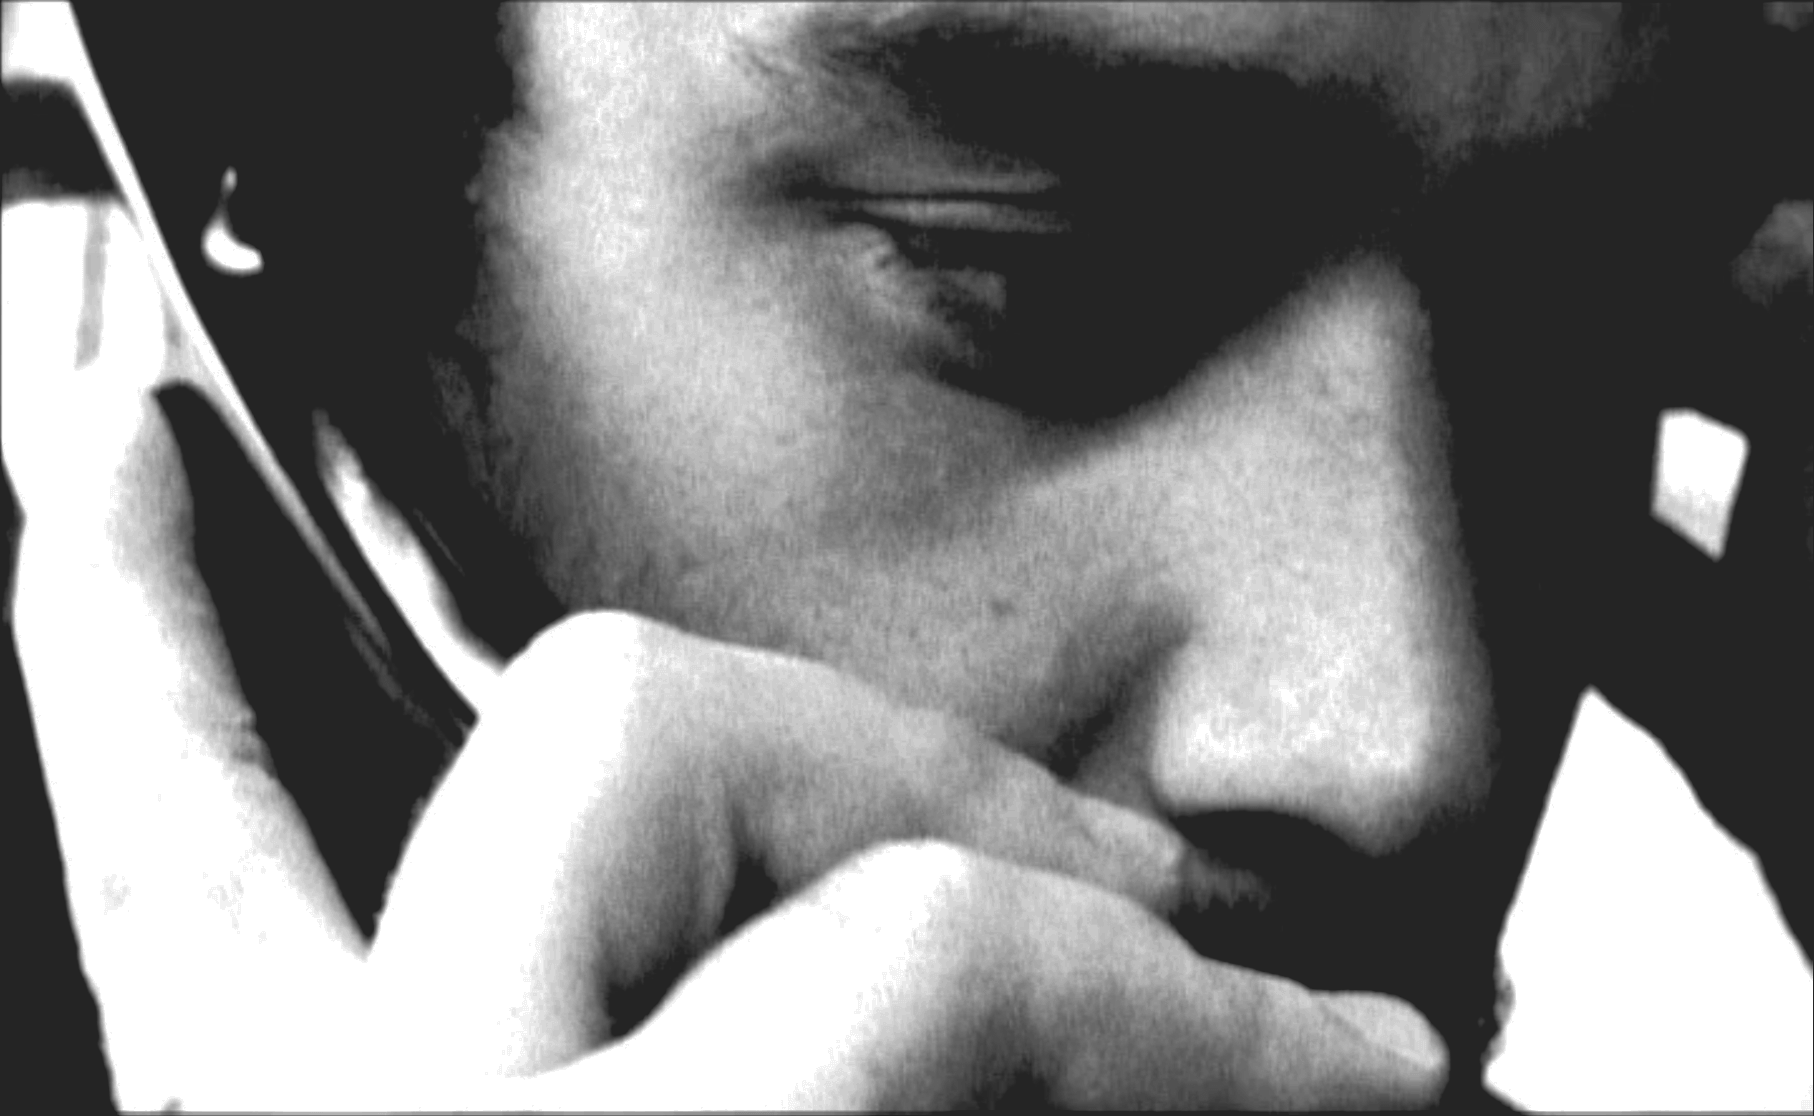
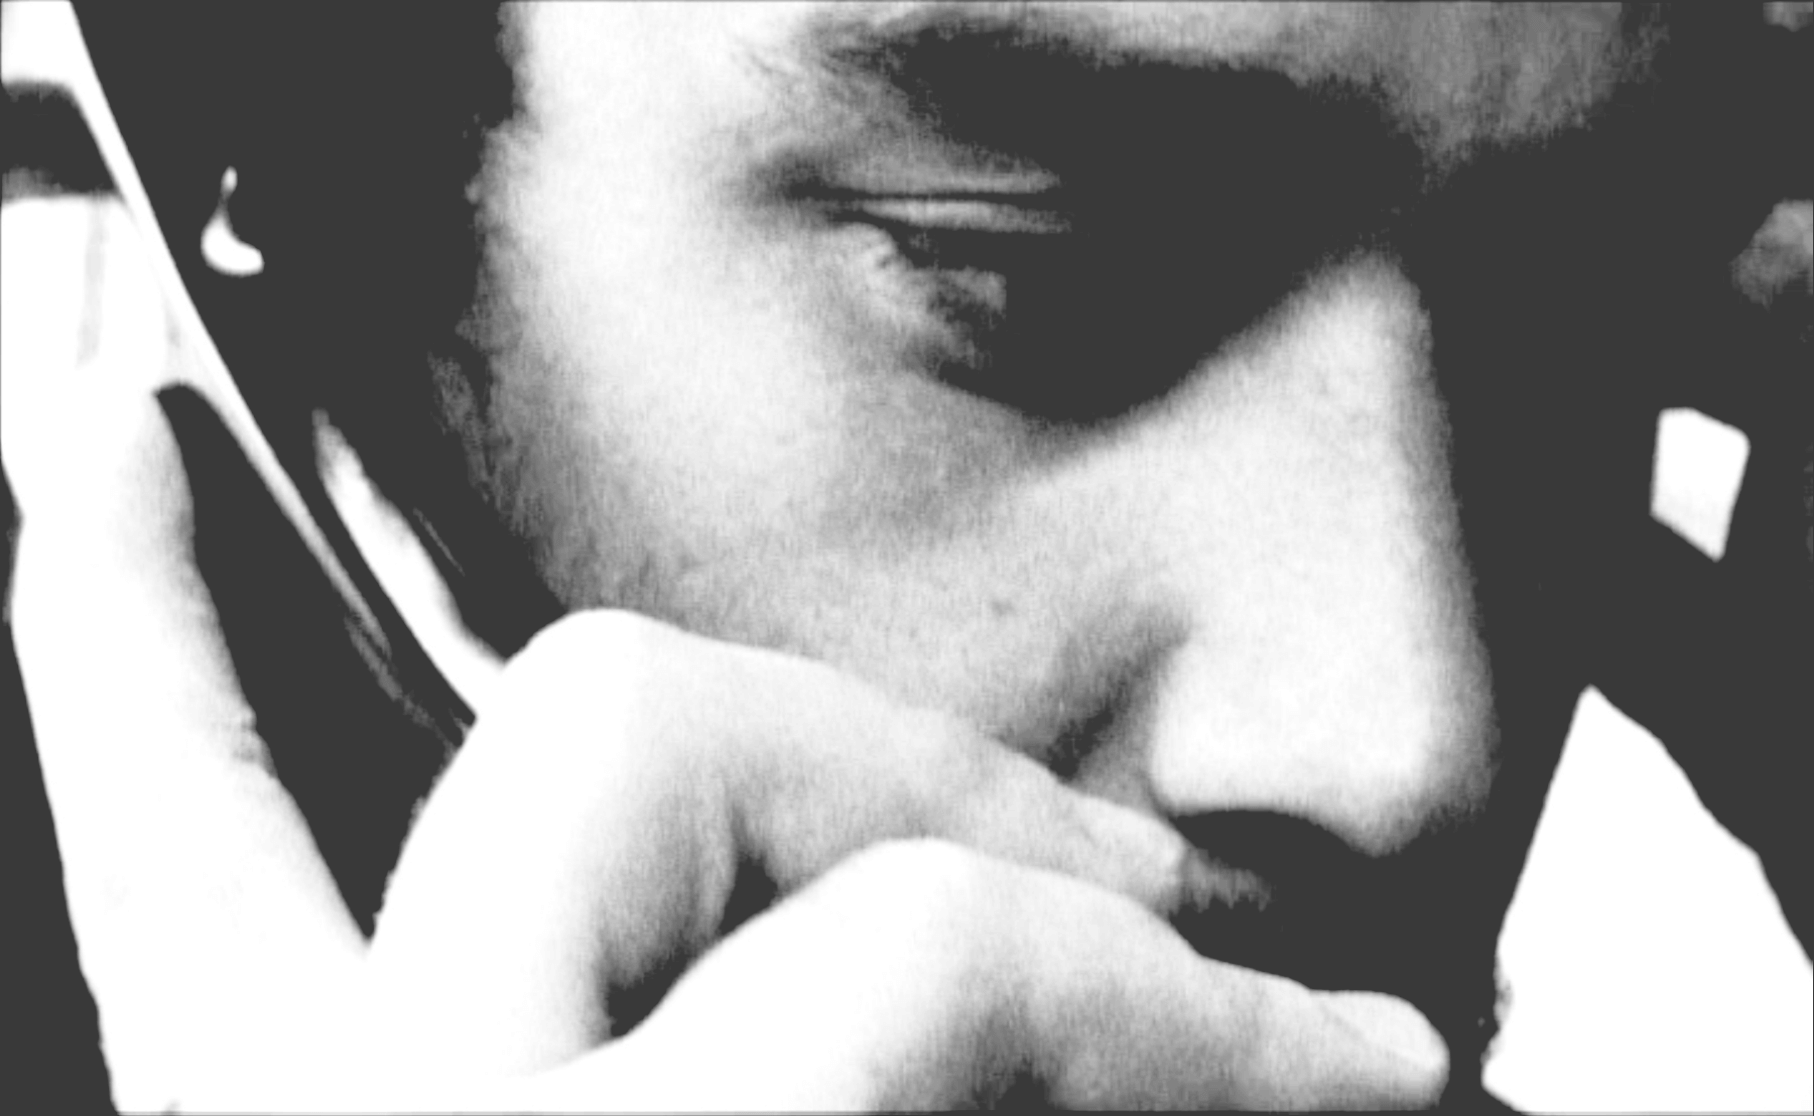
Video wrapper bg img now pseudo element

diff --git a/css/films.css b/css/films.css
@@ -1,2 +1,2 @@
-@-webkit-keyframes bounce{0%{-webkit-transform:translateY(-2rem);transform:translateY(-2rem)}to{-webkit-transform:translateY(0);transform:translateY(0)}}@keyframes bounce{0%{-webkit-transform:translateY(-2rem);transform:translateY(-2rem)}to{-webkit-transform:translateY(0);transform:translateY(0)}}.invisible-header{height:0}.films-section{display:-webkit-box;display:-ms-flexbox;display:flex;-webkit-box-orient:vertical;-webkit-box-direction:normal;-ms-flex-direction:column;flex-direction:column;font-family:"baskerville-poster-pt",serif;font-weight:400;line-height:1.5;overflow-y:scroll;max-height:100vh;-ms-scroll-snap-type:y mandatory;scroll-snap-type:y mandatory}.main-nav{-webkit-transition:all 0.3s ease-in;-o-transition:all 0.3s ease-in;transition:all 0.3s ease-in}.hide-main-nav{opacity:0;pointer-events:none}.video-wrapper{display:-webkit-box;display:-ms-flexbox;display:flex;-webkit-box-orient:vertical;-webkit-box-direction:normal;-ms-flex-direction:column;flex-direction:column;background-size:cover;background-repeat:no-repeat;background-position:center;-webkit-box-pack:center;-ms-flex-pack:center;justify-content:center;-webkit-box-align:center;-ms-flex-align:center;align-items:center;position:relative;margin:0;padding:0;line-height:0;scroll-snap-align:start;width:100%;height:100vh}.video-one-wrapper{background-image:url("/images/market-stall-woman.png")}.video-two-wrapper{background-image:url("/images/pole-dancer.png")}.video-three-wrapper{background-image:url("/images/kasper-on-phone.png")}.video-four-wrapper{background-image:url("/images/man-in-arena.png")}.video{width:100%;padding:0;margin:auto;-webkit-transition:all 0.3s ease-in;-o-transition:all 0.3s ease-in;transition:all 0.3s ease-in;position:relative;height:100vh}@media (max-width:1100px){.video{height:auto}}.bright-video{-webkit-filter:brightness(100%);filter:brightness(100%)}.video-title{position:absolute;top:5rem;font-size:10rem;font-weight:400;line-height:1;margin:0 auto;padding:0 1rem;text-align:center;color:#f7f7f7;text-transform:capitalize;-webkit-transition:all 0.3s ease-in;-o-transition:all 0.3s ease-in;transition:all 0.3s ease-in;z-index:2;word-break:break-word}@media (max-width:1500px){.video-title{font-size:8rem}}@media (max-width:900px){.video-title{font-size:5rem}}@media (max-width:700px){.video-title{font-size:3.75rem}}@media (max-width:400px){.video-title{font-size:3rem;top:1.5rem}}.hide-video-title{opacity:0;-webkit-transform:translateY(-5rem);-ms-transform:translateY(-5rem);transform:translateY(-5rem)}.video-counter{display:-webkit-box;display:-ms-flexbox;display:flex;-webkit-box-orient:horizontal;-webkit-box-direction:normal;-ms-flex-direction:row;flex-direction:row;position:absolute;-webkit-box-pack:justify;-ms-flex-pack:justify;justify-content:space-between;-webkit-box-align:center;-ms-flex-align:center;align-items:center;font-size:2.5rem;width:20rem;max-width:90%;font-weight:400;color:#f7f7f7;z-index:1;margin:0 auto;padding:0 1rem;bottom:5rem;-webkit-transition:all 0.3s ease-in;-o-transition:all 0.3s ease-in;transition:all 0.3s ease-in;line-height:1}@media (max-width:700px){.video-counter{font-size:2rem}}@media (max-width:400px){.video-counter{font-size:1.5rem;bottom:1.5rem}}.video-counter-active{font-size:5rem}@media (max-width:700px){.video-counter-active{font-size:3.75rem}}@media (max-width:400px){.video-counter-active{font-size:3rem}}.hide-video-counter{opacity:0;-webkit-transform:translateY(5rem);-ms-transform:translateY(5rem);transform:translateY(5rem)}.controls{display:-webkit-box;display:-ms-flexbox;display:flex;-webkit-box-orient:vertical;-webkit-box-direction:normal;-ms-flex-direction:column;flex-direction:column;-webkit-box-pack:space-evenly;-ms-flex-pack:space-evenly;justify-content:space-evenly;width:100%;position:relative;list-style-type:none;padding-left:0}.play-button{position:absolute;background-image:url("/images/video-player-icon.svg");background-size:contain;background-position:center;background-repeat:no-repeat;height:11rem;width:11rem;border:0;background-color:transparent;top:50%;left:50%;margin:0;padding:0;-webkit-transform:translateX(-50%) translateY(-50%) scale(0.5);-ms-transform:translateX(-50%) translateY(-50%) scale(0.5);transform:translateX(-50%) translateY(-50%) scale(0.5);-webkit-transition:all 0.2s ease-in;-o-transition:all 0.2s ease-in;transition:all 0.2s ease-in;cursor:pointer}.play-button:active{outline:none;border:none}.hide-play-button{opacity:0;-webkit-transform:translateX(-50%) translateY(-50%) scale(0);-ms-transform:translateX(-50%) translateY(-50%) scale(0);transform:translateX(-50%) translateY(-50%) scale(0);pointer-events:none;outline:none;border:none}.invisible-footer{height:0;padding:0;margin:0}@supports (-webkit-overflow-scrolling:touch){.films-section{max-height:100%;-webkit-overflow-scrolling:touch}}
+@-webkit-keyframes bounce{0%{-webkit-transform:translateY(-2rem);transform:translateY(-2rem)}to{-webkit-transform:translateY(0);transform:translateY(0)}}@keyframes bounce{0%{-webkit-transform:translateY(-2rem);transform:translateY(-2rem)}to{-webkit-transform:translateY(0);transform:translateY(0)}}.invisible-header{height:0}.films-section{display:-webkit-box;display:-ms-flexbox;display:flex;-webkit-box-orient:vertical;-webkit-box-direction:normal;-ms-flex-direction:column;flex-direction:column;font-family:"baskerville-poster-pt",serif;font-weight:400;line-height:1.5;overflow-y:scroll;max-height:100vh;-ms-scroll-snap-type:y mandatory;scroll-snap-type:y mandatory}.main-nav{-webkit-transition:all 0.3s ease-in;-o-transition:all 0.3s ease-in;transition:all 0.3s ease-in}.hide-main-nav{opacity:0;pointer-events:none}.video-wrapper{display:-webkit-box;display:-ms-flexbox;display:flex;-webkit-box-orient:vertical;-webkit-box-direction:normal;-ms-flex-direction:column;flex-direction:column;-webkit-box-pack:center;-ms-flex-pack:center;justify-content:center;-webkit-box-align:center;-ms-flex-align:center;align-items:center;position:relative;margin:0;padding:0;line-height:0;scroll-snap-align:start;width:100%;height:100vh}.video-wrapper:after{content:"";position:absolute;top:0;left:0;width:100%;height:100vh;background-size:cover;background-repeat:no-repeat;background-position:center;z-index:-1;-webkit-filter:brightness(50%);filter:brightness(50%)}.video-one-wrapper:after{background-image:url("/images/market-stall-woman.png")}.video-two-wrapper:after{background-image:url("/images/pole-dancer.png")}.video-three-wrapper:after{background-image:url("/images/kasper-on-phone.png")}.video-four-wrapper:after{background-image:url("/images/man-in-arena.png")}.video{width:100%;padding:0;margin:auto;-webkit-transition:all 0.3s ease-in;-o-transition:all 0.3s ease-in;transition:all 0.3s ease-in;position:relative;height:100vh}@media (max-width:1100px){.video{height:auto}}.bright-video{-webkit-filter:brightness(100%);filter:brightness(100%)}.video-title{position:absolute;top:5rem;font-size:10rem;font-weight:400;line-height:1;margin:0 auto;padding:0 1rem;text-align:center;color:#f7f7f7;text-transform:capitalize;-webkit-transition:all 0.3s ease-in;-o-transition:all 0.3s ease-in;transition:all 0.3s ease-in;z-index:2;word-break:break-word}@media (max-width:1500px){.video-title{font-size:8rem}}@media (max-width:900px){.video-title{font-size:5rem}}@media (max-width:700px){.video-title{font-size:3.75rem}}@media (max-width:400px){.video-title{font-size:3rem;top:1.5rem}}.hide-video-title{opacity:0;-webkit-transform:translateY(-5rem);-ms-transform:translateY(-5rem);transform:translateY(-5rem)}.video-counter{display:-webkit-box;display:-ms-flexbox;display:flex;-webkit-box-orient:horizontal;-webkit-box-direction:normal;-ms-flex-direction:row;flex-direction:row;position:absolute;-webkit-box-pack:justify;-ms-flex-pack:justify;justify-content:space-between;-webkit-box-align:center;-ms-flex-align:center;align-items:center;font-size:2.5rem;width:20rem;max-width:90%;font-weight:400;color:#f7f7f7;z-index:1;margin:0 auto;padding:0 1rem;bottom:5rem;-webkit-transition:all 0.3s ease-in;-o-transition:all 0.3s ease-in;transition:all 0.3s ease-in;line-height:1}@media (max-width:700px){.video-counter{font-size:2rem}}@media (max-width:400px){.video-counter{font-size:1.5rem;bottom:1.5rem}}.video-counter-active{font-size:5rem}@media (max-width:700px){.video-counter-active{font-size:3.75rem}}@media (max-width:400px){.video-counter-active{font-size:3rem}}.hide-video-counter{opacity:0;-webkit-transform:translateY(5rem);-ms-transform:translateY(5rem);transform:translateY(5rem)}.controls{display:-webkit-box;display:-ms-flexbox;display:flex;-webkit-box-orient:vertical;-webkit-box-direction:normal;-ms-flex-direction:column;flex-direction:column;-webkit-box-pack:space-evenly;-ms-flex-pack:space-evenly;justify-content:space-evenly;width:100%;position:relative;list-style-type:none;padding-left:0}.play-button{position:absolute;background-image:url("/images/video-player-icon.svg");background-size:contain;background-position:center;background-repeat:no-repeat;height:11rem;width:11rem;border:0;background-color:transparent;top:50%;left:50%;margin:0;padding:0;-webkit-transform:translateX(-50%) translateY(-50%) scale(0.5);-ms-transform:translateX(-50%) translateY(-50%) scale(0.5);transform:translateX(-50%) translateY(-50%) scale(0.5);-webkit-transition:all 0.2s ease-in;-o-transition:all 0.2s ease-in;transition:all 0.2s ease-in;cursor:pointer}.play-button:active{outline:none;border:none}.hide-play-button{opacity:0;-webkit-transform:translateX(-50%) translateY(-50%) scale(0);-ms-transform:translateX(-50%) translateY(-50%) scale(0);transform:translateX(-50%) translateY(-50%) scale(0);pointer-events:none;outline:none;border:none}.invisible-footer{height:0;padding:0;margin:0}@supports (-webkit-overflow-scrolling:touch){.films-section{max-height:100%;-webkit-overflow-scrolling:touch}}
 /*# sourceMappingURL=films.css.map */

diff --git a/sass/films.scss b/sass/films.scss
@@ -42,9 +42,6 @@
 
 .video-wrapper {
   @include flex(column);
-  background-size: cover;
-  background-repeat: no-repeat;
-  background-position: center;
   justify-content: center;
   align-items: center;
   position: relative;
@@ -54,22 +51,44 @@
   scroll-snap-align: start;
   width: 100%;
   height: 100vh;
+
+  &::after {
+    content: '';
+    position: absolute;
+    top: 0;
+    left: 0;
+    width: 100%;
+    height: 100vh;
+    background-size: cover;
+    background-repeat: no-repeat;
+    background-position: center;
+    z-index: -1;
+    filter: brightness(50%);
+  }
 }
 
 .video-one-wrapper {
-  background-image: url('/images/market-stall-woman.png');
+  &::after {
+    background-image: url('/images/market-stall-woman.png');
+  }
 }
 
 .video-two-wrapper {
-  background-image: url('/images/pole-dancer.png');
+  &::after {
+    background-image: url('/images/pole-dancer.png');
+  }
 }
 
 .video-three-wrapper {
-  background-image: url('/images/kasper-on-phone.png');
+  &::after {
+    background-image: url('/images/kasper-on-phone.png');
+  }
 }
 
 .video-four-wrapper {
-  background-image: url('/images/man-in-arena.png');
+  &::after {
+    background-image: url('/images/man-in-arena.png');
+  }
 }
 
 //* Videos
